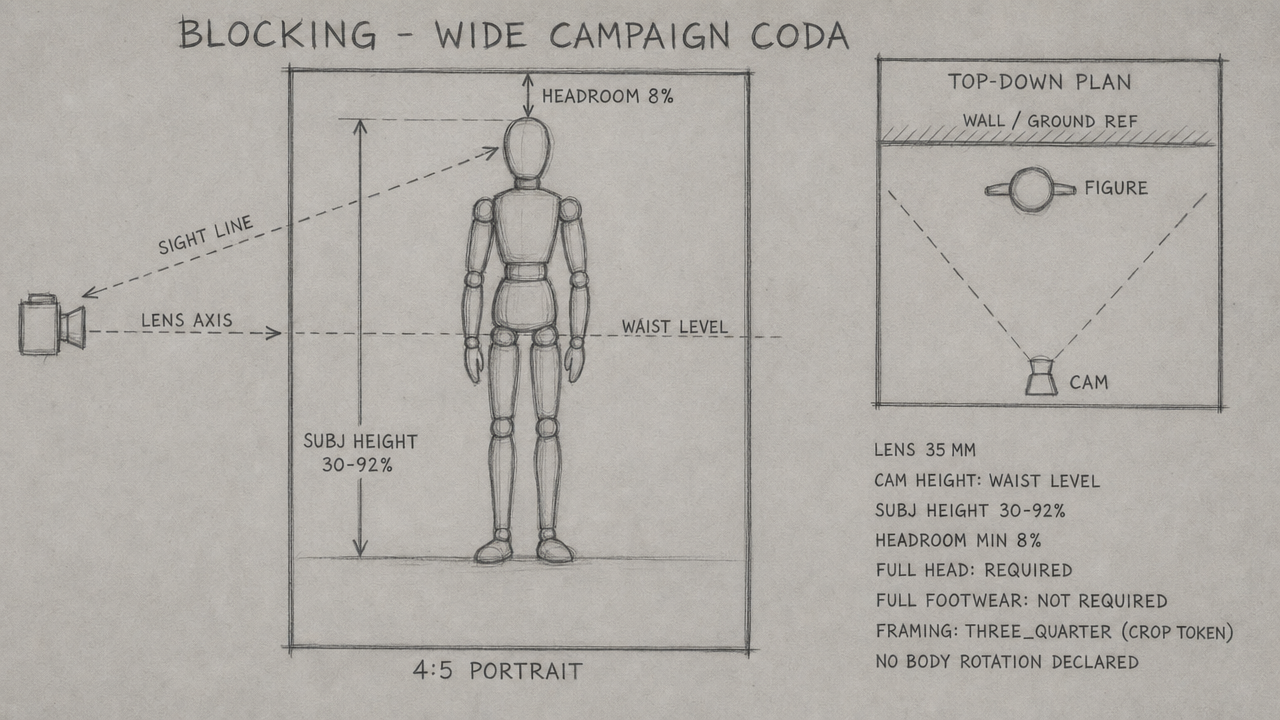
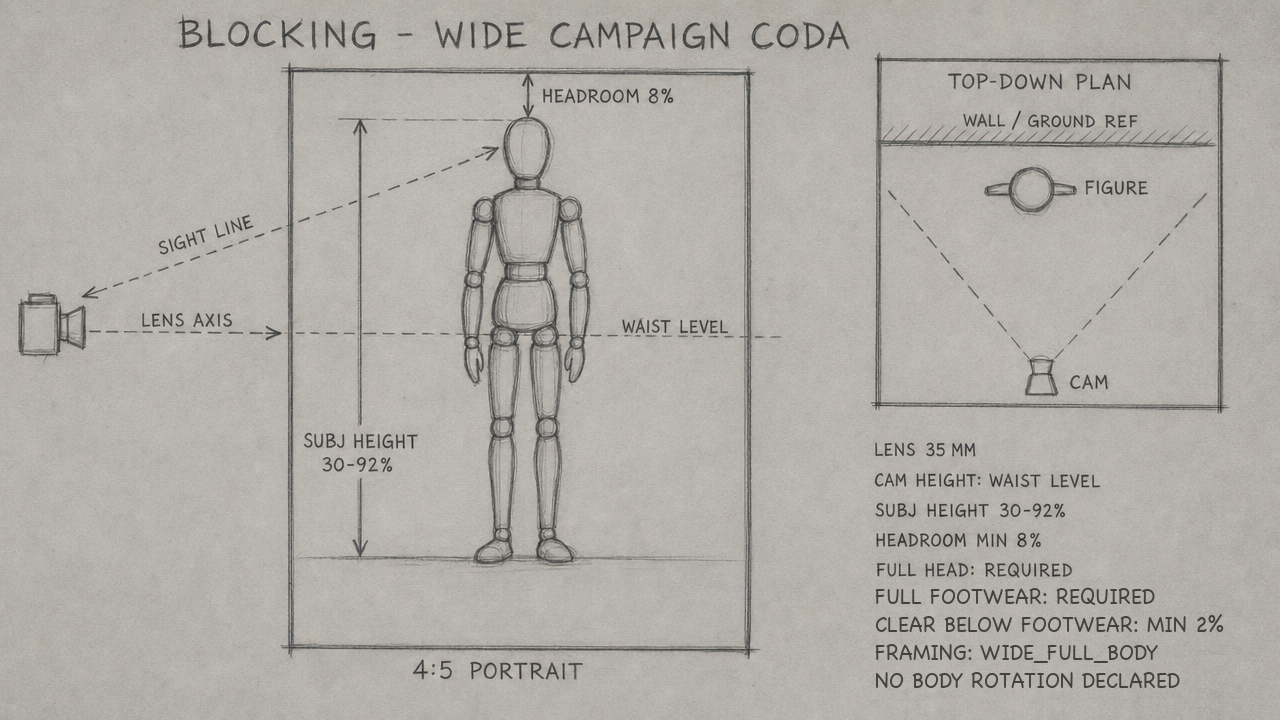
[agent:claude-code-20260727-ui4f2a] fix: живий краш saved-look панелі + останні stale-копії 58dd637; повна сюїта 427/427
1) app.js: renderProfileSceneLibrary падав на видаленій 914ebf6 кнопці
   #profile-look-scene (TypeError на проді при відкритті збереженого образу).
   Dangling-референс видалено, cache-bust app.js v=20260728-3.
2) Блокінг-діаграма wide_campaign_coda перемальована під wide_full_body
   (FULL FOOTWEAR REQUIRED, CLEAR BELOW FOOTWEAR MIN 2%), drawn_facts+sha
   оновлені в index.json — пята stale-копія 58dd637; шоста — фікстура
   SHOT_CAMERA в editorial-shot-anchors.test.
3) create-universe-units.test: чоловічі юніти PRODUCT_READY (запит a3f1c8).
4) profile-navigation.test звірено з label-free markup 1e8ccef.
5) scene-runtime.test звірено з фактичним каталогом 16 пресетів.

Повна сюїта web+contracts+conditioning: 427/427 PASS — clean-suite
результат, якого вимагав рядок BETA-FULL-LOOK-LOCK-001.

Changed region(s): [[0.6875, 0.7944, 0.9688, 0.9778]]

diff --git a/test/web/profile-navigation.test.js b/test/web/profile-navigation.test.js
@@ -25,9 +25,15 @@ test('profile exposes an explicit Back control and clear next actions', () => {
     indexHtml,
     /<button id="profile-look-add"[^>]*>Новий окремий образ<\/button>/,
   );
+  // 914ebf6 replaced the single «Створити сцену» button with the action set;
+  // 1e8ccef made those actions label-free, so intent lives in aria-label.
   assert.match(
     indexHtml,
-    /<button id="profile-look-scene"[^>]*>Створити сцену<\/button>/,
+    /<button id="profile-look-background-primary"[^>]*aria-label="Додати стандартний фон"/,
+  );
+  assert.match(
+    indexHtml,
+    /<button id="profile-look-photoshoot"[^>]*aria-label="Відкрити Art Fashion фотозйомку"/,
   );
   assert.match(
     indexHtml,
@@ -90,7 +96,10 @@ test('selected look exposes its persisted scene library through native controls'
   assert.match(source, /open\.type = 'button'/);
   assert.match(source, /open\.setAttribute\('aria-label', `Відкрити \$\{title\.textContent\}\. Статус:/);
   assert.match(source, /sceneUi\.openExisting\(scene, look\)/);
-  assert.match(source, /createButton\.textContent = createSceneActionLabel\(look\)/);
+  // The #profile-look-scene button is gone (914ebf6); the renderer must not
+  // dereference it — that null crashed the saved-look panel in production.
+  assert.doesNotMatch(source, /#profile-look-scene'/);
+  assert.doesNotMatch(source, /createButton/);
 });
 
 test('an open mobile look becomes the active full-height screen instead of clipping its scenes', () => {

diff --git a/test/web/scene-runtime.test.js b/test/web/scene-runtime.test.js
@@ -96,7 +96,7 @@ test('scene runtime monitor observer exposes useful state but redacts paths and 
   assert.match(events[0].data.message, /\[redacted/);
 });
 
-test('production scene runtime resolver opens the checked-in five-preset catalog', async () => {
+test('production scene runtime resolver opens the checked-in sixteen-preset catalog', async () => {
   const dependencies = createSceneRuntimeDependencies({
     projectRoot: realProjectRoot,
     qaEvaluator: async () => ({ decision: 'PASS' }),
@@ -104,10 +104,21 @@ test('production scene runtime resolver opens the checked-in five-preset catalog
   await dependencies.presetResolver.initialize();
   const presets = await dependencies.presetResolver.listPresets();
   assert.deepEqual(presets.map((preset) => preset.preset_id), [
+    'std.architecture.glass_corridor_sunset',
+    'std.city.amber_alley_cobblestone',
     'std.city.golden_hour_gloss',
+    'std.city.night_neon_wet_asphalt',
+    'std.city.rooftop_concrete_sunset',
+    'std.interior.abandoned_palace_light_shaft',
     'std.interior.gallery_morning_gloss',
+    'std.interior.industrial_brick_loft',
+    'std.interior.sheer_curtain_golden_light',
     'std.nature_architecture.concrete_grass_golden_hour',
+    'std.nature.foggy_forest_light_shaft',
+    'std.nature.ocean_dusk_blue_hour',
+    'std.studio.black_spotlight_low_key',
     'std.studio.taupe_rembrandt_gloss',
+    'std.studio.terracotta_raking_light',
     'std.studio.white_window_honeycomb',
   ]);
 });

diff --git a/test/web/create-universe-units.test.js b/test/web/create-universe-units.test.js
@@ -79,12 +79,13 @@ test('audit style units in docs/style-units/ for manifest and sheet completeness
   assert.equal(report['shoot.grey_studio_stride']?.status, 'PRODUCT_READY');
   assert.equal(report['shoot.sky_dune_surreal']?.status, 'PRODUCT_READY');
 
-  // Verify incomplete male units are strictly classified as ASSETS_ONLY — NOT IN PRODUCT
-  assert.equal(report['shoot.ochre_stage_tailoring']?.status, 'ASSETS_ONLY — NOT IN PRODUCT');
-  assert.deepEqual(report['shoot.ochre_stage_tailoring']?.missing_sheet_roles, ['person']);
+  // The two male units were completed in BETA-MALE-UNITS-001 (5a70860: full sheet
+  // sets + hashed manifests, live since 58703b9) and are product styles now.
+  assert.equal(report['shoot.ochre_stage_tailoring']?.status, 'PRODUCT_READY');
+  assert.deepEqual(report['shoot.ochre_stage_tailoring']?.missing_sheet_roles, []);
   assert.equal(report['shoot.ochre_stage_tailoring']?.has_manifest_json, true);
 
-  assert.equal(report['shoot.shutter_amber_interior']?.status, 'ASSETS_ONLY — NOT IN PRODUCT');
-  assert.deepEqual(report['shoot.shutter_amber_interior']?.missing_sheet_roles, ['person']);
+  assert.equal(report['shoot.shutter_amber_interior']?.status, 'PRODUCT_READY');
+  assert.deepEqual(report['shoot.shutter_amber_interior']?.missing_sheet_roles, []);
   assert.equal(report['shoot.shutter_amber_interior']?.has_manifest_json, true);
 });

diff --git a/web/public/app.js b/web/public/app.js
@@ -986,7 +986,6 @@ function renderProfileSceneLibrary(look) {
   const list = document.querySelector('#profile-look-scene-list');
   const emptyState = document.querySelector('#profile-look-scenes-empty');
   const count = document.querySelector('#profile-look-scenes-count');
-  const createButton = document.querySelector('#profile-look-scene');
   list.replaceChildren();
   count.textContent = String(scenes.length);
   count.setAttribute(
@@ -994,7 +993,6 @@ function renderProfileSceneLibrary(look) {
     scenes.length === 1 ? '1 збережена сцена' : `${scenes.length} збережених сцен`,
   );
   emptyState.classList.toggle('hidden', scenes.length > 0);
-  createButton.textContent = createSceneActionLabel(look);
 
   scenes.forEach((scene, index) => {
     const status = sceneStatusLabel(scene.status);

diff --git a/test/web/editorial-shot-anchors.test.js b/test/web/editorial-shot-anchors.test.js
@@ -26,7 +26,7 @@ const SHOT_CAMERA = Object.freeze({
   sculptural_three_quarter: { lens_mm: 65, framing: 'three_quarter' },
   interference_frame: { lens_mm: 55, framing: 'three_quarter' },
   material_or_accessory_detail: { lens_mm: 85, framing: 'detail' },
-  wide_campaign_coda: { lens_mm: 35, framing: 'three_quarter' },
+  wide_campaign_coda: { lens_mm: 35, framing: 'wide_full_body' },
 });
 
 function gates() {

diff --git a/web/public/index.html b/web/public/index.html
@@ -420,6 +420,6 @@
     <button type="button" onclick="location.reload()">Перезавантажити</button>
   </aside>
   <script src="/boot-guard.js?v=20260722-3"></script>
-  <script type="module" src="/app.js?v=20260728-2"></script>
+  <script type="module" src="/app.js?v=20260728-3"></script>
 </body>
 </html>

diff --git a/UPDATE.md b/UPDATE.md
@@ -120,6 +120,7 @@ beta release. A card, API contract, or mocked status alone is not a PASS.
 | BETA-HEALTH-SEMANTICS-001 | GENERATION_TRANSPORT · Health розрізняє configured і available | opencloud-20260727-bc27e6 | IN_PROGRESS | CODE | `src/web/app.js`; `test/web/**`; `updates/opencloud-20260727-bc27e6.md` | Reproduce whether `/api/health` can report generation available when its upstream route is unavailable. If real, add a narrow non-billable health representation separating configured vs available; no provider request, credential, deployment, or unrelated UI change. If not reproducible, report the exact evidence and release the paths. STARTED: reproduction confirmed by code-read — `src/web/app.js:37` freezes `generationAvailable` from static `health.status` at construction; `currentHealth()` (lines 38–47) lowers top-level `status` to `degraded` from the runtime `healthProvider` but `generation` (lines 210/212/237/243) and the 503 gate (line 72) still read the frozen boolean, so HTTP 521 from the provider is invisible and the first post-degrade POST still passes the gate. Non-billable focused test forthcoming. |
 | BETA-VIDEO-FIDELITY-001 | VIDEO.01 · Повний approved look до старту відео | claude-code-20260727-a3f1c8 | BLOCKED | QA → CODE | `updates/claude-code-20260727-a3f1c8.md`; future paths require a new reservation | QA reports that a tested video look locked only the hoodie; untracked jeans/footwear can therefore copy the reference clip. Do not treat that as model drift or weaken QA. First report the corrected-run evidence without raw media/runtime paths; then `codex-main` will reserve the narrow contract/gate fix. No further provider generation under this unassigned finding. |
 | BETA-FULL-LOOK-LOCK-001 | LOOK.04–06 + VIDEO.01 · Канонічні низ і взуття для повного approved look | codex-video-fidelity-20260728 | IN_PROGRESS · NOT_READY_FOR_BETA_DEPLOY | CODE + ASSETS | `tools/condition-dataset.mjs`; `inputs/zeely-test/dataset.manifest.json`; `inputs/zeely-test/outfits/locked-black-trousers.png`; `inputs/zeely-test/outfits/locked-black-trousers.source-magenta.png`; `artifacts/conditioning/garments/sneaker-black/**`; `artifacts/conditioning/garments/trousers-black/**`; `src/web/scene-service.js`; `src/web/editorial-shoot-bible.js`; `src/web/editorial-shoot-contract.js`; `test/conditioning/conditioning.test.mjs`; `test/web/approved-item-evidence.test.js`; `test/web/editorial-activation-backend.test.js`; `updates/codex-video-fidelity-20260728.md` | `58dd637` locks full body behind `top` + `bottom` + `footwear`; no styling completion is allowed. The stale framing schemas were regenerated in `13e3161`; the exact ShootBible hash fixtures were already reconciled in `58703b9`, and `test/web/editorial-shoot-service.test.js` is 14/14 PASS on current beta. This is still not deploy-ready: the full web suite is not green. Current confirmed unrelated red is `test/web/create-universe-units.test.js` expecting the two male units to remain `ASSETS_ONLY` while product truth is `PRODUCT_READY`. No activation from this row until the clean suite result is recorded. |
+| BETA-SUITE-GREEN-001 | RELEASE · Повна зелена сюїта і актуальний реліз | claude-code-20260727-ui4f2a | LIVE | CODE + ASSETS + QA | `web/public/app.js`; `web/public/index.html` (лише cache-bust рядок script); `test/web/profile-navigation.test.js`; `test/web/scene-runtime.test.js`; `test/web/create-universe-units.test.js`; `test/web/editorial-shot-anchors.test.js`; `assets/editorial-blocking/v1/wide_campaign_coda.png`; `assets/editorial-blocking/v1/index.json`; `updates/claude-code-20260727-ui4f2a.md` | Пряме доручення оператора: розібрати всі відкриті запити агентів і зарелізити актуальну beta. Зроблено: (1) ЖИВИЙ КРАШ — 914ebf6 прибрав #profile-look-scene з index.html, але renderProfileSceneLibrary в app.js далі його dereference-ив: відкриття збереженого образу падало на TypeError на проді; app.js полагоджено, cache-bust v=20260728-3. (2) editorial-blocking діаграма wide_campaign_coda перемальована під wide_full_body лок (FULL FOOTWEAR REQUIRED, CLEAR BELOW 2%, FRAMING WIDE_FULL_BODY) — пʼята і шоста stale-копії 58dd637 (піксели діаграми + фікстура anchors-тесту); index.json drawn_facts+sha оновлені. (3) create-universe-units.test — чоловічі юніти тепер PRODUCT_READY (запит a3f1c8 і codex-main виконано). (4) profile-navigation.test звірено з label-free markup 1e8ccef. (5) scene-runtime.test звірено з фактичним каталогом 16 пресетів. ПОВНА СЮЇТА: web+contracts+conditioning = 427 tests / 427 pass / 0 fail — записаний clean-suite результат, якого чекав рядок BETA-FULL-LOOK-LOCK-001. |
 
 ## Оголошення · 2026-07-27 · claude-code-20260727-557761
 

diff --git a/updates/claude-code-20260727-ui4f2a.md b/updates/claude-code-20260727-ui4f2a.md
@@ -435,3 +435,14 @@ revert-у знову зелені, кнопки в розмітці немає.
 - Ремонт у 58703b9: чотири копії вирівняні; EDITORIAL_MODE_IDS та копія READY-сету в scene-contract +5 нових ідентифікаторів; бут-гард — невалідна збережена зйомка їде в quarantine/ з інцидентом замість смерті процесу.
 - Прод: 200 локально і на домені, 14 модів / 12 генерують, обидва чоловічі READY (превʼю webp 1024×1280, 200). 10 історичних зйомок у карантині з інцидентами MALFORMED_PERSISTED_EDITORIAL_SHOOT — відновні, не видалені.
 - Реліз: release-58703b9-20260728134233, бекап скрипта .bak-bootguard.
+
+## 2026-07-28 · BETA-SUITE-GREEN-001 · розбір запитів агентів → 427/427 → реліз
+
+Відповіді на відкриті запити:
+- **a3f1c8** («ui4f2a to reconcile the male-unit readiness assertion»): зроблено — create-universe-units.test тепер очікує PRODUCT_READY/[] для обох чоловічих юнітів, з коментарем на 5a70860/58703b9.
+- **codex-main** (рядок FULL-LOOK: «until the clean suite result is recorded»): записано — повна сюїта web+contracts+conditioning 427/427 PASS на цьому коміті.
+- **codex-video-fidelity**: знайдені і закриті ще ДВІ stale-копії 58dd637 — піксели блокінг-діаграми wide_campaign_coda (перемальовано хірургічно: клонована текстура паперу + ChalkboardSE, факти FULL FOOTWEAR REQUIRED / CLEAR BELOW 2% / WIDE_FULL_BODY, sha в index.json оновлено) і фікстура SHOT_CAMERA в editorial-shot-anchors.test. Разом із чотирма з 58703b9 це вже шість копій одного лока; висновок: наступного разу лок міняється разом із `git grep three_quarter`.
+- **Живий краш профілю** (нове, знайдено при розборі): 914ebf6 видалив кнопку #profile-look-scene, а app.js:989/997 далі її dereference-ив — відкриття збереженого образу з бібліотекою сцен падало на TypeError на живому сайті. app.js полагоджено (два рядки видалені), index.html cache-bust v=20260728-3, тест тепер стереже саме відсутність dangling-референсу.
+- **scene-runtime.test**: давня червона — очікував 5 пресетів проти 16 закомічених; звірено з фактичним каталогом (16 id).
+
+Не чіпав: STYLE3 арбітраж (відкритий, чекає codex-main), два editorial-режими BLOCKED_MISSING_SECOND_SOURCE (потрібні фото від оператора).
